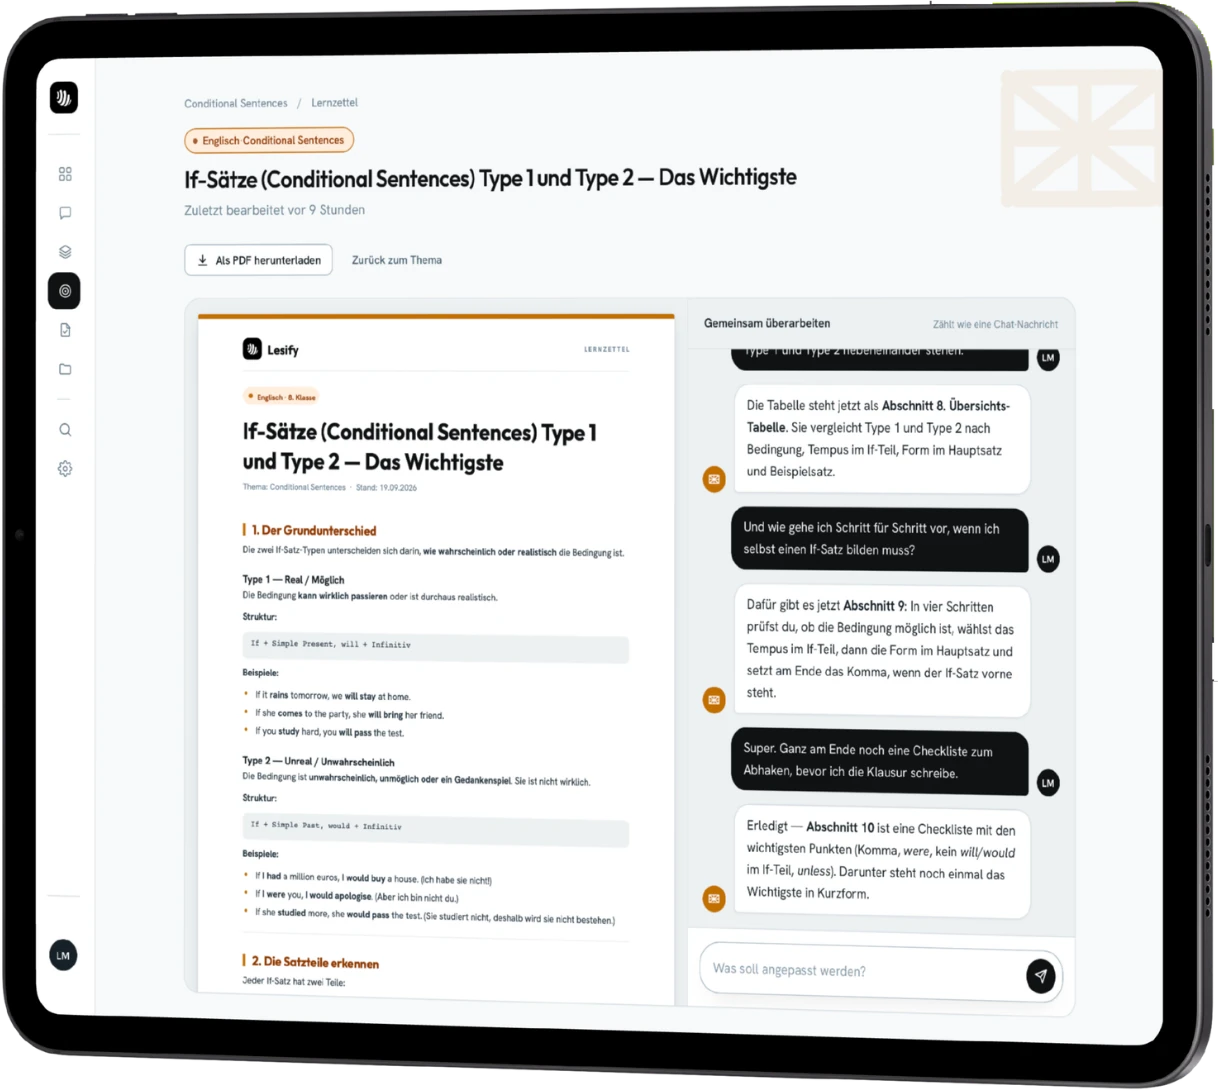
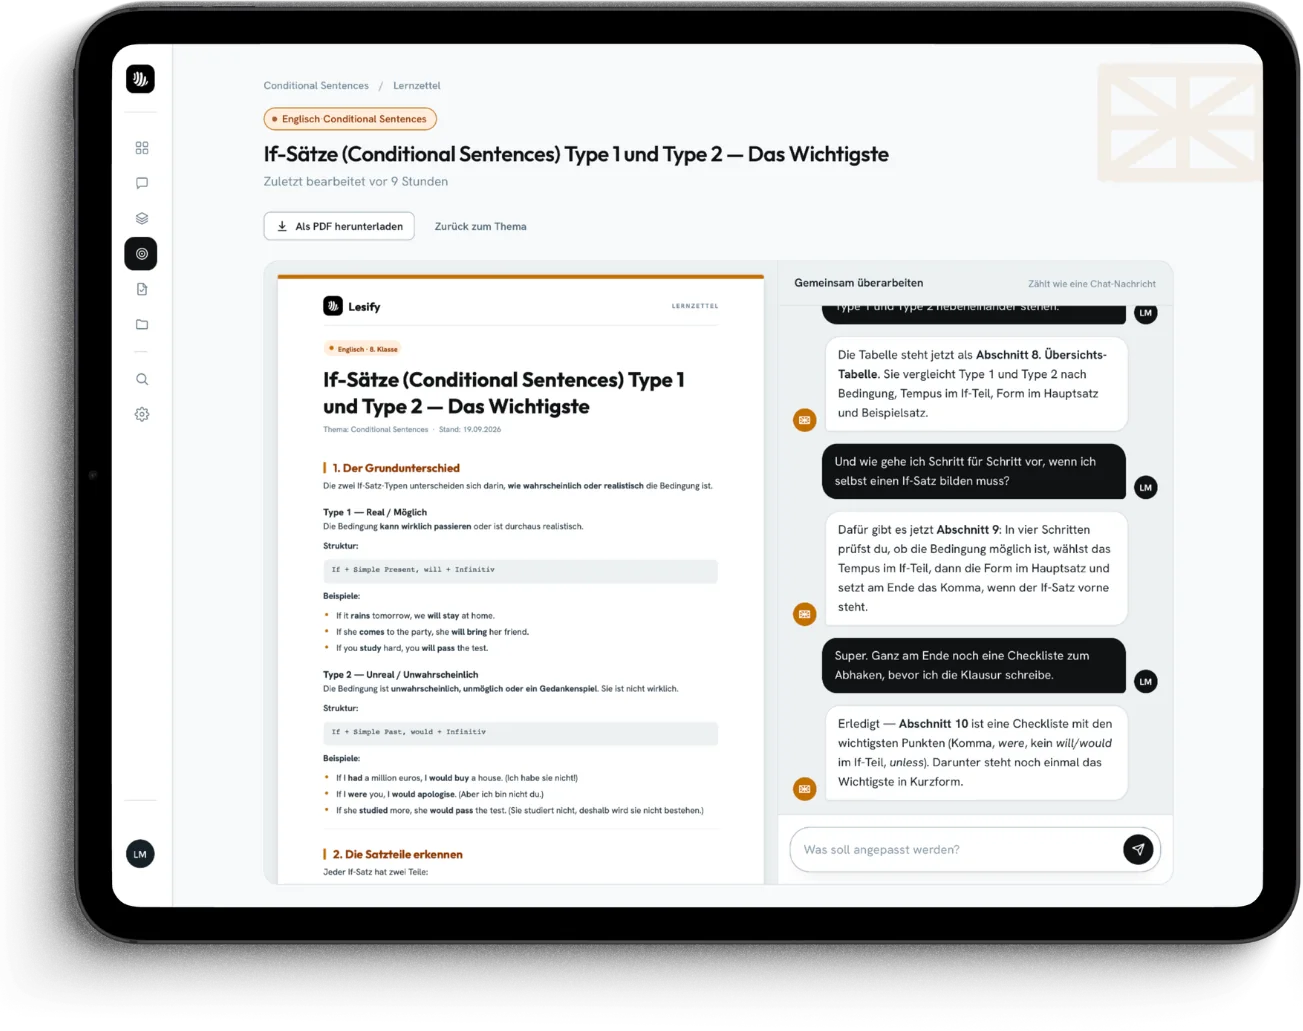
feat(marketing): /lan2/ — neues Lernzettel-Section-Bild (section-lernzettel)

diff --git a/marketing/assets/js/lan2.js b/marketing/assets/js/lan2.js
@@ -77,7 +77,7 @@
       h: 'Der ganze Klausurstoff, automatisch kompakt zusammengefasst.',
       lead: 'Aus der gesamten Klausurvorbereitung entsteht ein einziger Lernzettel, der Formeln, Definitionen und alles Wichtige übersichtlich und kompakt vereint.',
       imgs: ['section-lernzettel'],
-      dims: [1218, 1091],
+      dims: [1303, 1031],
       flat: true,
       alt: 'Lesify Lernzettel „If-Sätze Type 1 und Type 2“ neben dem Chat zum gemeinsamen Überarbeiten'
     },
